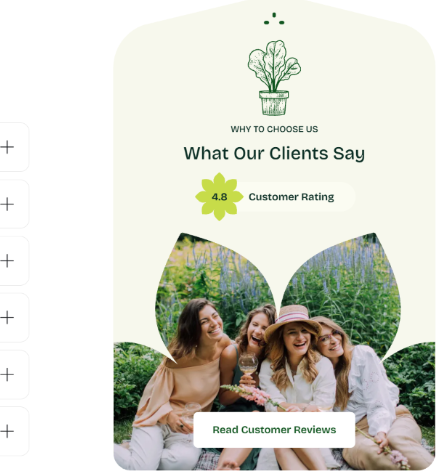
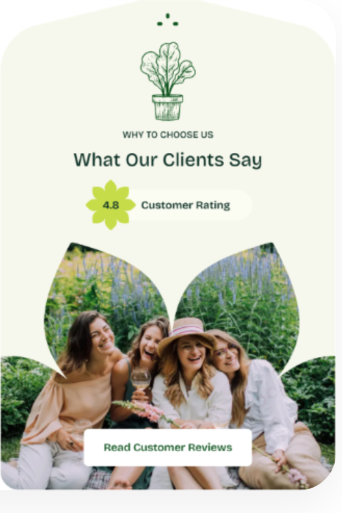
Optimize Gardering mobile layout, add scroll animations, and clean testimonial card

diff --git a/gardering.html b/gardering.html
@@ -428,8 +428,8 @@
 
                 <div class="more-services-grid">
                     <!-- Column 1 -->
-                    <div class="more-service-item">
-                        <div class="more-service-badge">
+                    <div class="more-service-item reveal-up" style="transition-delay: 0.05s;">
+                        <div class="more-service-badge float-anim">
                             <svg viewBox="0 0 24 24" fill="none" stroke="currentColor" stroke-width="2.5" stroke-linecap="round">
                                 <line x1="12" y1="3" x2="12" y2="21"/>
                                 <line x1="3" y1="12" x2="21" y2="12"/>
@@ -442,8 +442,8 @@
                     </div>
 
                     <!-- Column 2 -->
-                    <div class="more-service-item">
-                        <div class="more-service-badge">
+                    <div class="more-service-item reveal-up" style="transition-delay: 0.15s;">
+                        <div class="more-service-badge float-anim">
                             <svg viewBox="0 0 24 24" fill="none" stroke="currentColor" stroke-width="2.5" stroke-linecap="round">
                                 <line x1="12" y1="3" x2="12" y2="21"/>
                                 <line x1="3" y1="12" x2="21" y2="12"/>
@@ -456,8 +456,8 @@
                     </div>
 
                     <!-- Column 3 -->
-                    <div class="more-service-item">
-                        <div class="more-service-badge">
+                    <div class="more-service-item reveal-up" style="transition-delay: 0.25s;">
+                        <div class="more-service-badge float-anim">
                             <svg viewBox="0 0 24 24" fill="none" stroke="currentColor" stroke-width="2.5" stroke-linecap="round">
                                 <line x1="12" y1="3" x2="12" y2="21"/>
                                 <line x1="3" y1="12" x2="21" y2="12"/>
@@ -470,8 +470,8 @@
                     </div>
 
                     <!-- Column 4 -->
-                    <div class="more-service-item">
-                        <div class="more-service-badge">
+                    <div class="more-service-item reveal-up" style="transition-delay: 0.35s;">
+                        <div class="more-service-badge float-anim">
                             <svg viewBox="0 0 24 24" fill="none" stroke="currentColor" stroke-width="2.5" stroke-linecap="round">
                                 <line x1="12" y1="3" x2="12" y2="21"/>
                                 <line x1="3" y1="12" x2="21" y2="12"/>
@@ -504,8 +504,8 @@
                     <p class="experience-desc">We deliver exceptional service that keeps you coming back. Our goal is to build lasting relationships by treating you like family.</p>
                     
                     <ul class="experience-bullets">
-                        <li class="experience-bullet-item">
-                            <div class="experience-bullet-badge">
+                        <li class="experience-bullet-item reveal-up" style="transition-delay: 0.1s;">
+                            <div class="experience-bullet-badge float-anim">
                                 <svg viewBox="0 0 24 24" fill="none" stroke="currentColor" stroke-width="2.5" stroke-linecap="round">
                                     <line x1="12" y1="3" x2="12" y2="21"/>
                                     <line x1="3" y1="12" x2="21" y2="12"/>
@@ -515,8 +515,8 @@
                             </div>
                             <span class="experience-bullet-text">Honest and open communication from start to finish</span>
                         </li>
-                        <li class="experience-bullet-item">
-                            <div class="experience-bullet-badge">
+                        <li class="experience-bullet-item reveal-up" style="transition-delay: 0.2s;">
+                            <div class="experience-bullet-badge float-anim">
                                 <svg viewBox="0 0 24 24" fill="none" stroke="currentColor" stroke-width="2.5" stroke-linecap="round">
                                     <line x1="12" y1="3" x2="12" y2="21"/>
                                     <line x1="3" y1="12" x2="21" y2="12"/>
@@ -526,8 +526,8 @@
                             </div>
                             <span class="experience-bullet-text">A dedicated team ready to follow your schedule</span>
                         </li>
-                        <li class="experience-bullet-item">
-                            <div class="experience-bullet-badge">
+                        <li class="experience-bullet-item reveal-up" style="transition-delay: 0.3s;">
+                            <div class="experience-bullet-badge float-anim">
                                 <svg viewBox="0 0 24 24" fill="none" stroke="currentColor" stroke-width="2.5" stroke-linecap="round">
                                     <line x1="12" y1="3" x2="12" y2="21"/>
                                     <line x1="3" y1="12" x2="21" y2="12"/>
@@ -537,8 +537,8 @@
                             </div>
                             <span class="experience-bullet-text">Transparent pricing that never includes hidden fees</span>
                         </li>
-                        <li class="experience-bullet-item">
-                            <div class="experience-bullet-badge">
+                        <li class="experience-bullet-item reveal-up" style="transition-delay: 0.4s;">
+                            <div class="experience-bullet-badge float-anim">
                                 <svg viewBox="0 0 24 24" fill="none" stroke="currentColor" stroke-width="2.5" stroke-linecap="round">
                                     <line x1="12" y1="3" x2="12" y2="21"/>
                                     <line x1="3" y1="12" x2="21" y2="12"/>
@@ -552,7 +552,7 @@
                 </div>
 
                 <!-- Right Card Image -->
-                <div class="experience-img-wrap reveal-fade" style="transition-delay: 0.15s;">
+                <div class="experience-img-wrap reveal-scale" style="transition-delay: 0.15s;">
                     <img src="assets/gardening_cypress_stairs.jpg" alt="Grand landscaped garden staircase flanked by cypress trees">
                 </div>
             </div>
@@ -567,7 +567,7 @@
                     <h2>Frequently Asked<br>Questions</h2>
 
                     <div class="faq-accordion">
-                        <div class="faq-item active">
+                        <div class="faq-item active reveal-up" style="transition-delay: 0.05s;">
                             <button class="faq-question" type="button">
                                 <span>How often do you recommend scheduling garden maintenance?</span>
                                 <span class="faq-icon">+</span>
@@ -577,7 +577,7 @@
                             </div>
                         </div>
 
-                        <div class="faq-item">
+                        <div class="faq-item reveal-up" style="transition-delay: 0.1s;">
                             <button class="faq-question" type="button">
                                 <span>Can you work with existing garden features?</span>
                                 <span class="faq-icon">+</span>
@@ -587,7 +587,7 @@
                             </div>
                         </div>
 
-                        <div class="faq-item">
+                        <div class="faq-item reveal-up" style="transition-delay: 0.15s;">
                             <button class="faq-question" type="button">
                                 <span>How do you determine the cost of garden landscaping?</span>
                                 <span class="faq-icon">+</span>
@@ -597,7 +597,7 @@
                             </div>
                         </div>
 
-                        <div class="faq-item">
+                        <div class="faq-item reveal-up" style="transition-delay: 0.2s;">
                             <button class="faq-question" type="button">
                                 <span>What types of plants do you typically recommend?</span>
                                 <span class="faq-icon">+</span>
@@ -607,7 +607,7 @@
                             </div>
                         </div>
 
-                        <div class="faq-item">
+                        <div class="faq-item reveal-up" style="transition-delay: 0.25s;">
                             <button class="faq-question" type="button">
                                 <span>How long does a typical garden makeover take?</span>
                                 <span class="faq-icon">+</span>
@@ -617,7 +617,7 @@
                             </div>
                         </div>
 
-                        <div class="faq-item">
+                        <div class="faq-item reveal-up" style="transition-delay: 0.3s;">
                             <button class="faq-question" type="button">
                                 <span>Do you offer eco-friendly gardening solutions?</span>
                                 <span class="faq-icon">+</span>
@@ -630,8 +630,8 @@
                 </div>
 
                 <!-- Right Column: Testimonial Card -->
-                <div class="faq-testimonial-wrap reveal-fade" style="transition-delay: 0.2s;">
-                    <a href="#contact" style="display:block;text-decoration:none;">
+                <div class="faq-testimonial-wrap reveal-scale" style="transition-delay: 0.2s;">
+                    <a href="#contact" class="testimonial-card-link" style="display:block;text-decoration:none;">
                         <img src="assets/gardening_testimonial_card.png" alt="What Our Clients Say - Customer Rating 4.8">
                     </a>
                 </div>

diff --git a/style.css b/style.css
@@ -2298,22 +2298,84 @@ body.hero-loaded .customer-rating {
     align-items: center;
 }
 
+.gardening-hero-card {
+    transition: transform 0.4s cubic-bezier(0.16, 1, 0.3, 1), box-shadow 0.4s ease;
+}
+
+.gardening-hero-card:hover {
+    transform: translateY(-4px);
+    box-shadow: 0 16px 35px rgba(0, 0, 0, 0.06);
+}
+
+.gardening-hero-img-wrap img {
+    transition: transform 0.6s cubic-bezier(0.16, 1, 0.3, 1);
+}
+
+.gardening-hero-img-wrap:hover img {
+    transform: scale(1.04);
+}
+
+.experience-card {
+    transition: transform 0.4s cubic-bezier(0.16, 1, 0.3, 1), box-shadow 0.4s ease;
+}
+
+.experience-card:hover {
+    transform: translateY(-4px);
+    box-shadow: 0 16px 35px rgba(0, 0, 0, 0.05);
+}
+
+.experience-img-wrap img {
+    transition: transform 0.6s cubic-bezier(0.16, 1, 0.3, 1);
+}
+
+.experience-img-wrap:hover img {
+    transform: scale(1.04);
+}
+
+.more-service-item {
+    padding: 12px;
+    border-radius: 16px;
+    transition: transform 0.35s cubic-bezier(0.16, 1, 0.3, 1), background-color 0.3s ease;
+}
+
+.more-service-item:hover {
+    transform: translateY(-6px);
+    background-color: rgba(255, 255, 255, 0.05);
+}
+
+.faq-item {
+    transition: all 0.3s cubic-bezier(0.16, 1, 0.3, 1);
+}
+
+.faq-item:hover {
+    transform: translateX(4px);
+    border-color: #a6b835;
+}
+
 .faq-testimonial-wrap img {
     width: 100%;
-    max-width: 480px;
+    max-width: 440px;
     height: auto;
     display: block;
     border-radius: 36px;
-    box-shadow: 0 15px 40px rgba(0, 0, 0, 0.06);
-    transition: transform 0.3s ease;
+    box-shadow: 0 15px 40px rgba(0, 0, 0, 0.07);
+    transition: transform 0.4s cubic-bezier(0.16, 1, 0.3, 1), box-shadow 0.4s ease;
 }
 
 .faq-testimonial-wrap:hover img {
-    transform: translateY(-4px);
+    transform: translateY(-6px) scale(1.015);
+    box-shadow: 0 22px 50px rgba(0, 0, 0, 0.12);
 }
 
-/* RESPONSIVE ADDITIONS */
+/* RESPONSIVE ADDITIONS FOR GARDERING PAGE */
 @media (max-width: 1024px) {
+    .gardening-hero-container {
+        padding: 20px;
+    }
+    .gardening-hero-grid {
+        grid-template-columns: 1fr;
+        gap: 24px;
+    }
     .more-services-grid {
         grid-template-columns: repeat(2, 1fr);
         gap: 30px;
@@ -2326,51 +2388,108 @@ body.hero-loaded .customer-rating {
         grid-template-columns: 1fr;
         gap: 50px;
     }
+    .faq-testimonial-wrap {
+        margin-top: 10px;
+    }
     .faq-testimonial-wrap img {
-        max-width: 420px;
+        max-width: 380px;
     }
 }
 
 @media (max-width: 768px) {
+    .gardening-hero-container {
+        padding: 15px;
+    }
+    .gardening-hero-card {
+        padding: 35px 22px;
+        border-radius: 22px;
+    }
+    .gardening-hero-card h1 {
+        font-size: 38px;
+        line-height: 1.15;
+    }
+    .gardening-hero-img-wrap {
+        border-radius: 22px;
+        min-height: 280px;
+        max-height: 380px;
+    }
+
+    .gardening-tabs-section {
+        padding: 50px 15px;
+    }
+    .tabs-header-left h2 {
+        font-size: 32px;
+    }
+    .services-tab-nav {
+        gap: 0;
+        margin-bottom: 30px;
+        padding-bottom: 8px;
+        -webkit-overflow-scrolling: touch;
+    }
+    .tab-btn {
+        padding: 10px 16px 12px 0;
+        margin-right: 18px;
+        font-size: 14.5px;
+    }
+
     .more-services-wrapper {
-        padding: 40px 15px 60px;
+        padding: 35px 15px 55px;
+    }
+    .leaf-crown-container img {
+        height: 48px;
+        margin-bottom: -4px;
     }
     .more-services-card {
-        padding: 45px 25px;
-        border-radius: 24px;
+        padding: 40px 20px 45px;
+        border-radius: 22px;
     }
     .more-services-header h2 {
-        font-size: 30px;
+        font-size: 26px;
+        line-height: 1.25;
     }
     .more-services-grid {
         grid-template-columns: 1fr;
         gap: 25px;
     }
+
     .experience-section {
-        padding: 40px 15px 60px;
+        padding: 40px 15px 55px;
     }
     .experience-card {
-        padding: 35px 25px;
-        border-radius: 24px;
+        padding: 32px 20px;
+        border-radius: 22px;
     }
     .experience-card h2 {
-        font-size: 32px;
+        font-size: 30px;
+        line-height: 1.2;
     }
+    .experience-img-wrap {
+        border-radius: 22px;
+        min-height: 280px;
+        max-height: 380px;
+    }
+
     .faq-section {
         padding: 40px 15px 60px;
     }
     .faq-left h2 {
-        font-size: 32px;
+        font-size: 30px;
+        margin-bottom: 25px;
     }
     .faq-question {
         font-size: 15px;
-        padding: 16px 20px;
+        padding: 16px 18px;
+        min-height: 52px;
+    }
+    .faq-testimonial-wrap {
+        margin-top: 20px;
     }
     .faq-testimonial-wrap img {
         width: 100%;
-        max-width: 100%;
+        max-width: 330px;
         border-radius: 24px;
     }
 }
+
 
 
